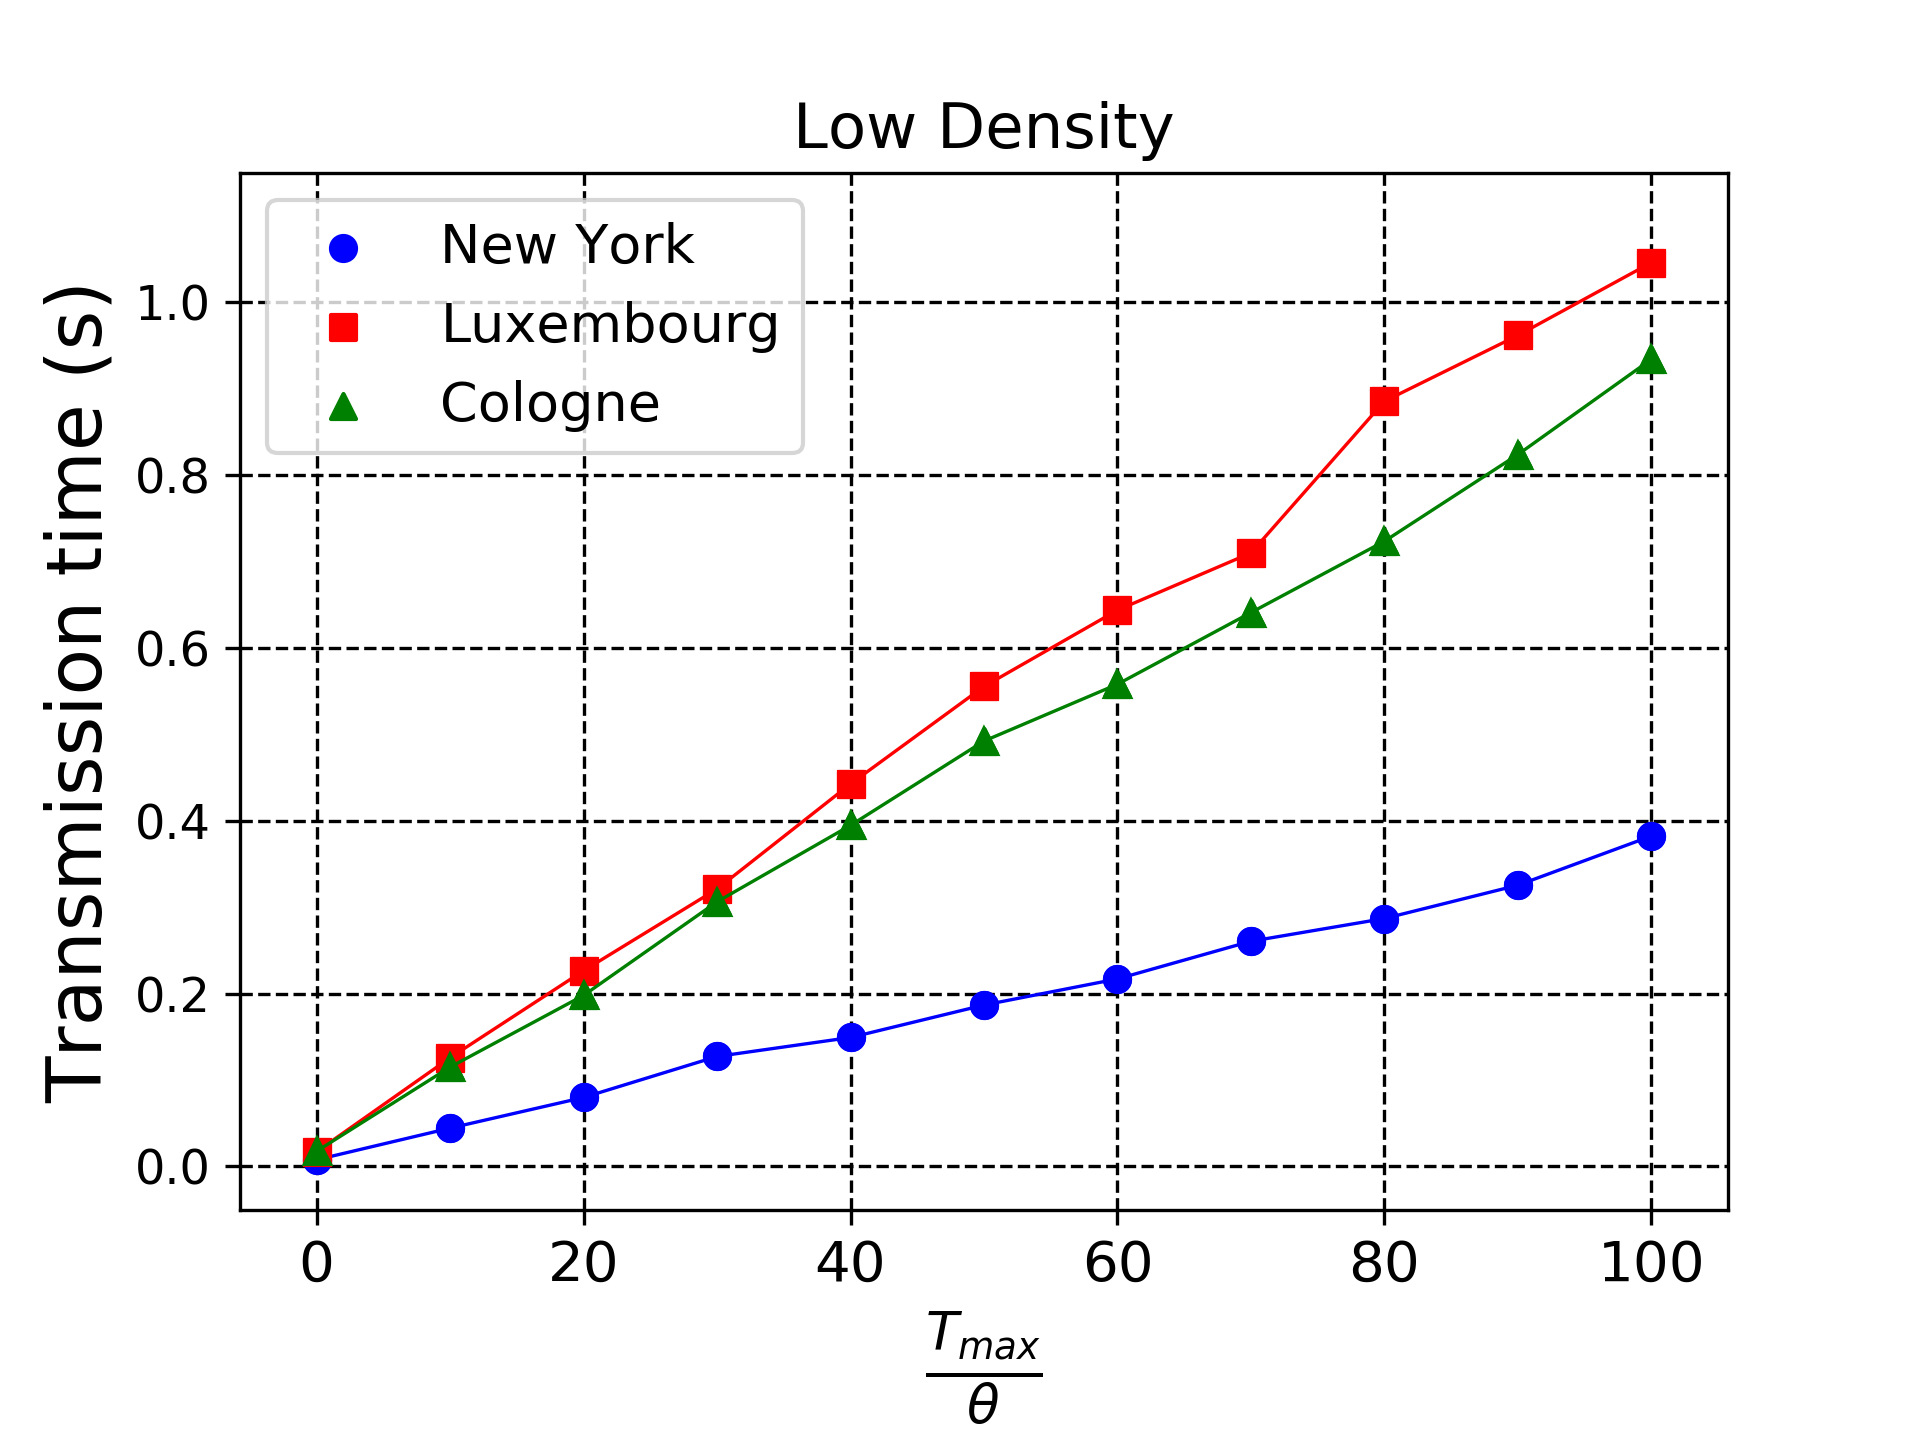
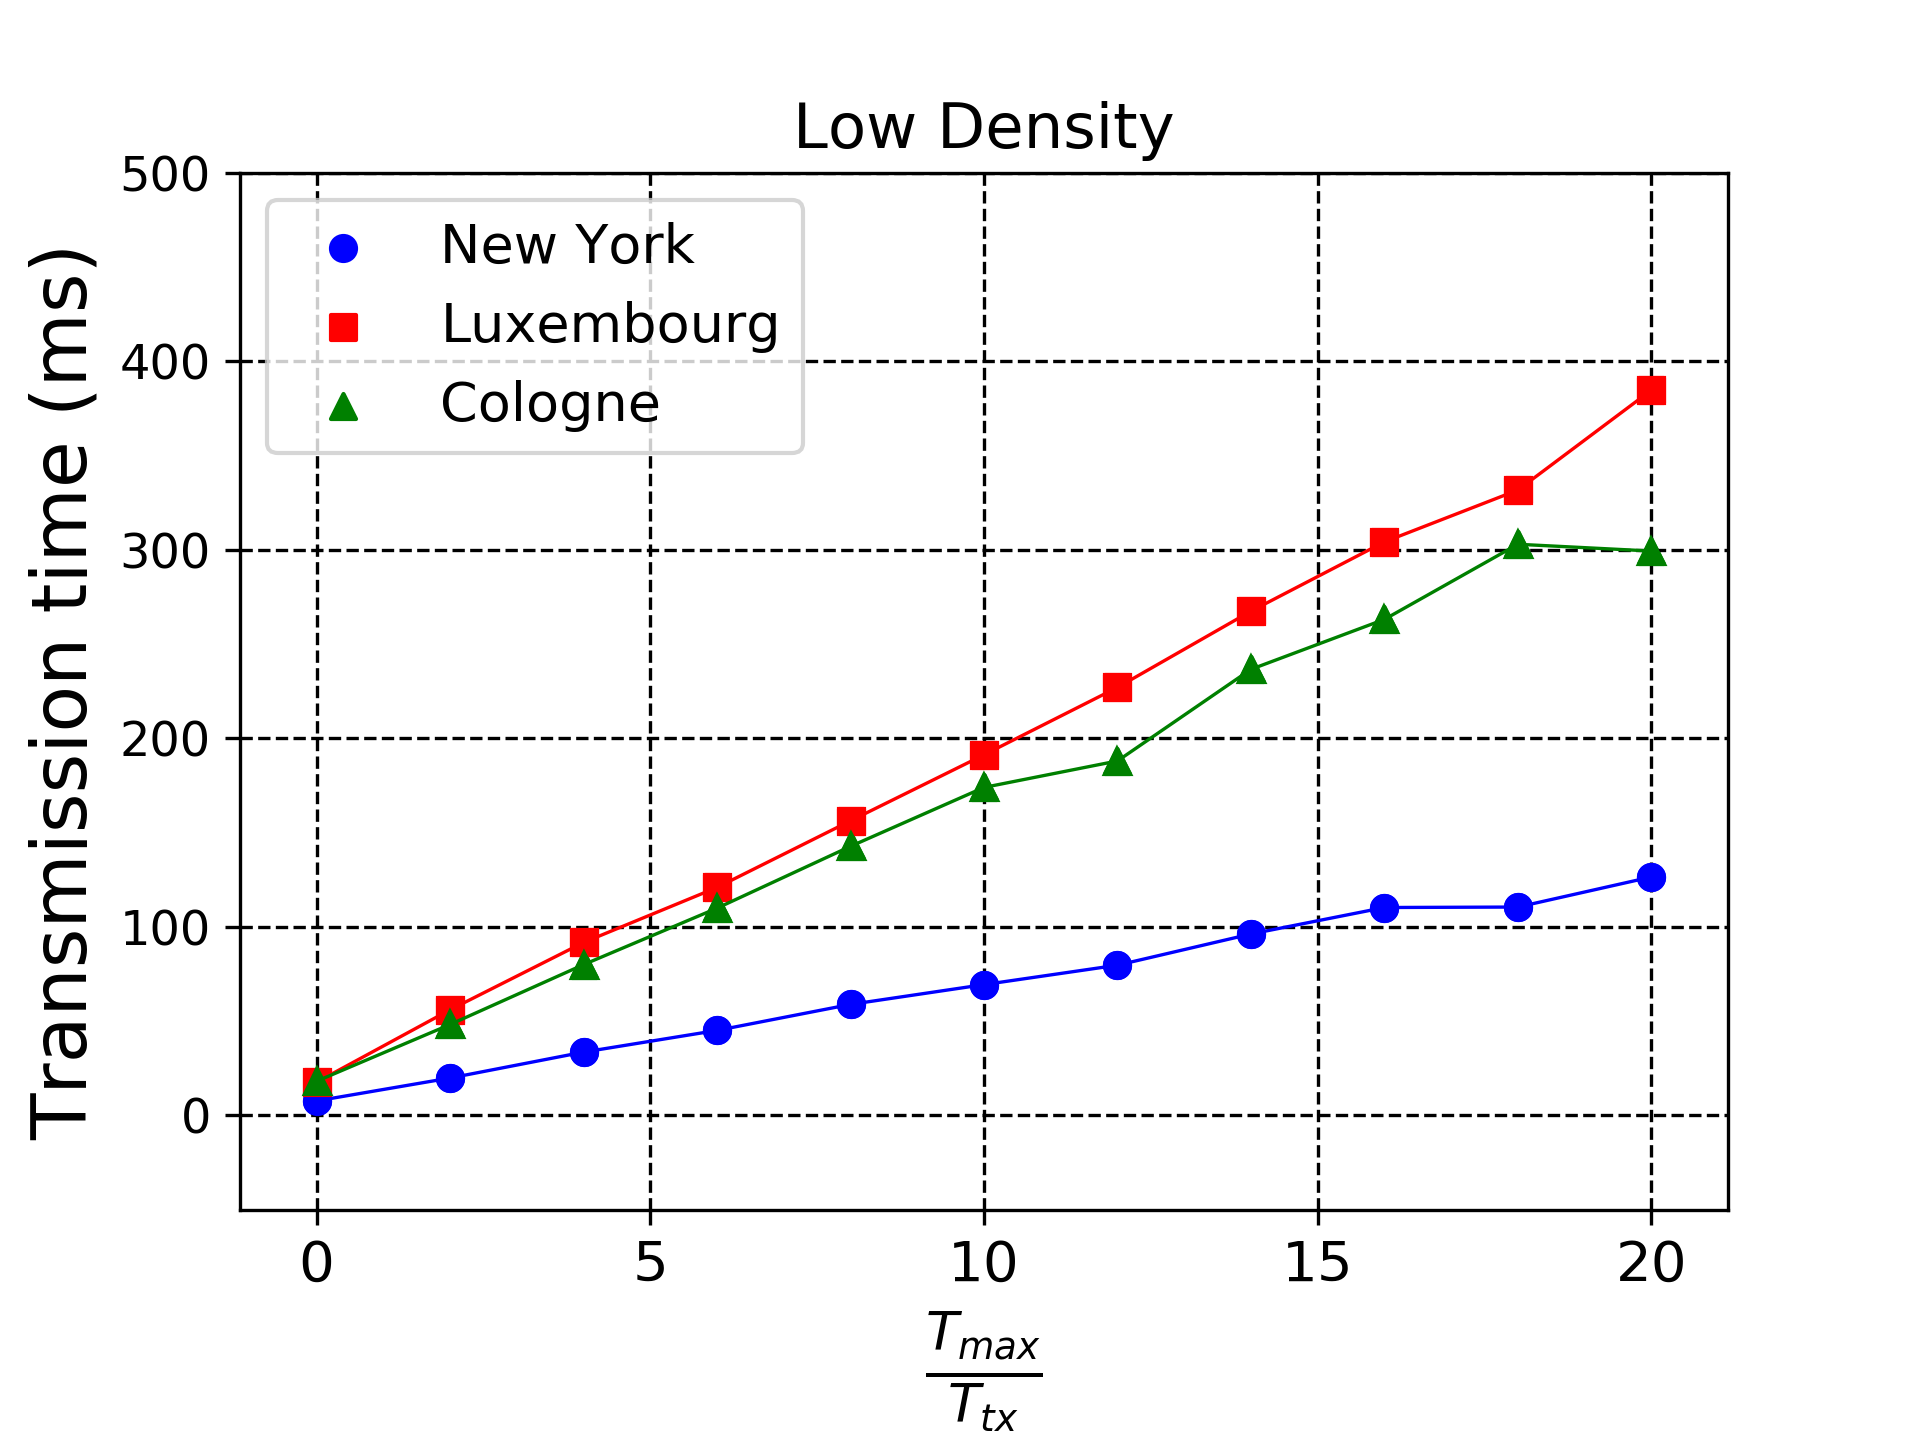
update tx graphs

diff --git a/grafici/invited/tx_time_all.py b/grafici/invited/tx_time_all.py
@@ -3,15 +3,15 @@ import numpy as np
 from matplotlib import pyplot as plt
 
 # Time of last vehicle infection for all the topologies
-newyork_7005 = [0.00755, 0.0437, 0.0801, 0.1158, 0.16335, 0.19315000000000002, 0.23915, 0.27245, 0.3128, 0.34935, 0.38005, ]
-newyork_3005 = [0.0076500000000000005, 0.0443, 0.07980000000000001, 0.12725, 0.1492, 0.18675, 0.217, 0.2606, 0.2869, 0.32545, 0.38235, ]
-luxembourg_1000 = [0.00935, 0.05185, 0.10325000000000001, 0.15445, 0.20850000000000002, 0.25075000000000003, 0.29975, 0.32305, 0.37255, 0.42925, 0.46795000000000003, ]
-luxembourg_50 = [0.01705, 0.12575, 0.2265, 0.3211, 0.44265000000000004, 0.5555, 0.6438, 0.7100500000000001, 0.8856, 0.9618000000000001, 1.0461, ]
-cologne_1000 = [0.01955, 0.12145, 0.22690000000000002, 0.33585000000000004, 0.44225000000000003, 0.51715, 0.6585000000000001, 0.74145, 0.8527, 0.95435, 1.0915000000000001, ]
-cologne_50 = [0.01755, 0.11495000000000001, 0.19790000000000002, 0.30625, 0.3947, 0.4923, 0.55805, 0.641, 0.72355, 0.8239000000000001, 0.9342, ]
+newyork_7005 = 1000 * np.array([0.007350000000000001, 0.019350000000000003, 0.03065, 0.043500000000000004, 0.05745, 0.06805, 0.0792, 0.09395, 0.11405, 0.1188, 0.13745000000000002, ])
+newyork_3005 = 1000 * np.array([0.0076500000000000005, 0.0198, 0.03355, 0.04505, 0.05885, 0.06935000000000001, 0.07965, 0.09620000000000001, 0.11025, 0.1105, 0.12645, ])
+luxembourg_1000 = 1000 * np.array([0.009550000000000001, 0.0239, 0.04125, 0.05885, 0.07295, 0.09095, 0.10745, 0.11415, 0.1306, 0.1484, 0.16315000000000002, ])
+luxembourg_50 = 1000 * np.array([0.0176, 0.056, 0.0917, 0.12090000000000001, 0.15625, 0.19125, 0.227, 0.26745, 0.3042, 0.3317, 0.38470000000000004, ])
+cologne_1000 = 1000 * np.array([0.0223, 0.04995, 0.0806, 0.12445, 0.15885000000000002, 0.19265000000000002, 0.24735000000000001, 0.25775000000000003, 0.28435, 0.33485000000000004, 0.34855, ])
+cologne_50 = 1000 * np.array([0.0181, 0.0482, 0.07995000000000001, 0.10990000000000001, 0.1427, 0.17395000000000002, 0.188, 0.2366, 0.2631, 0.30295, 0.29935, ])
 
 # tmax values values
-x = np.linspace(0, 100, 11)
+x = np.linspace(0, 20, 11)
 
 def plot_config():
     plt.rcParams.update({'font.size': 18.3})
@@ -21,9 +21,9 @@ def plot_config():
     plt.rc('grid', linestyle="--", color='black')
     plt.gcf().subplots_adjust(bottom=0.16)
 
-    plt.ylabel('Transmission time (s)')
-    plt.xlabel(r'$\frac{T_{max}}{\theta}$')
-    plt.ylim((-0.05, 1.15))
+    plt.ylabel('Transmission time (ms)')
+    plt.xlabel(r'$\frac{T_{max}}{T_{tx}}$')
+    plt.ylim((-50, 500))
 
     plt.grid(True)
 
@@ -36,7 +36,7 @@ plt.plot(x, newyork_7005, marker="o", color="blue", linewidth=0.8)
 plt.plot(x, luxembourg_1000, marker="s", color="red", linewidth=0.8)
 plt.plot(x, cologne_1000, marker="^", color="green", linewidth=0.8)
 plt.title("High Density", fontsize=15)
-plt.legend()
+plt.legend(loc="upper left")
 #plt.show()
 plt.savefig("grafici/invited/imgs/tx_time/all_high_dens.png", dpi=300)
 plt.clf()
@@ -49,6 +49,6 @@ plt.plot(x, newyork_3005, marker="o", color="blue", linewidth=0.8)
 plt.plot(x, luxembourg_50, marker="s", color="red", linewidth=0.8)
 plt.plot(x, cologne_50, marker="^", color="green", linewidth=0.8)
 plt.title("Low Density", fontsize=15)
-plt.legend()
+plt.legend(loc="upper left")
 #plt.show()
 plt.savefig("grafici/invited/imgs/tx_time/all_low_dens.png", dpi=300)
